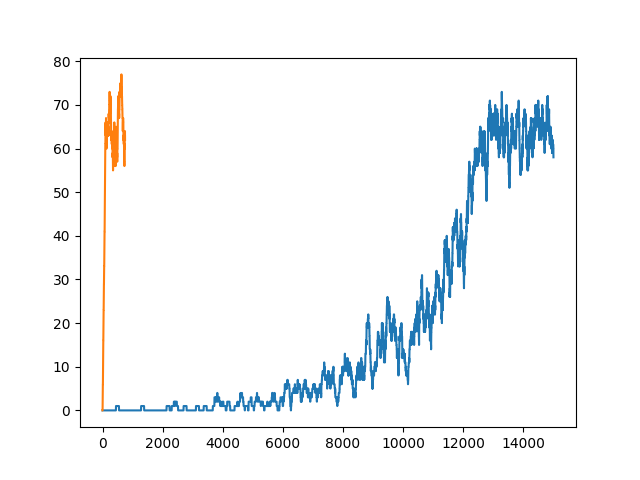
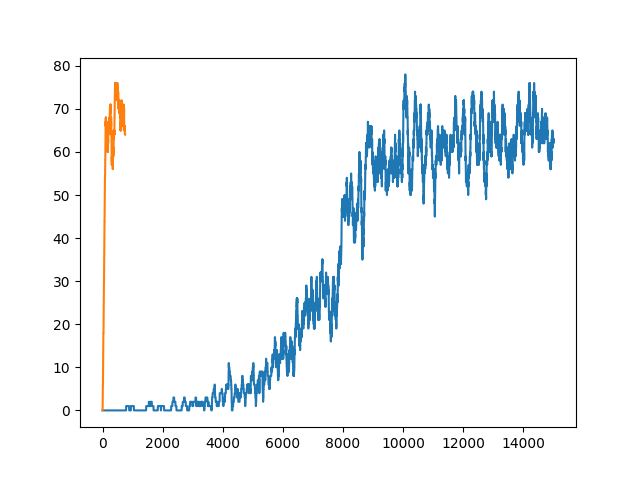
modify some bug

diff --git a/part2/frozen_lake.py b/part2/frozen_lake.py
@@ -55,10 +55,10 @@ def run(episodes, is_training=True, render=False, epsilon_decay_rate=0.0001, min
     # discount_factor_g = 0.9 # gamma or discount rate. Near 0: more weight/reward placed on immediate state. Near 1: more on future state.
     # epsilon = 1         # 1 = 100% random actions
     # epsilon_decay_rate = 0.0001        # epsilon decay rate. 1/0.0001 = 10,000
-    # start_learning_rate_a = 0.5
-    # min_learning_rate_a = 0.1
+    start_learning_rate_a = 0.5
+    min_learning_rate_a = 0.1
     learning_rate_a = start_learning_rate_a
-    rng = np.random.default_rng(seed=123)   # random number generator
+    rng = np.random.default_rng(seed=257)   # random number generator
 
     rewards_per_episode = np.zeros(episodes)
 
@@ -87,12 +87,12 @@ def run(episodes, is_training=True, render=False, epsilon_decay_rate=0.0001, min
             if is_training:
                 if terminated and not win:
                     distance_to_goal = shortest_distances[new_state // grid_size, new_state % grid_size]
-                    reward = (hole_reward / (distance_to_goal + 1))  # Closer to goal gets higher reward
+                    reward += (hole_reward / (distance_to_goal + 1))  # Closer to goal gets higher reward
                     pass
                 
                 if truncated and not win:
                     distance_to_goal = shortest_distances[new_state // grid_size, new_state % grid_size]
-                    reward = (time_up_reward / (distance_to_goal + 1))  # Further from goal gets penalty
+                    reward += (time_up_reward / (distance_to_goal + 1))  # Further from goal gets penalty
                     pass
 
             if is_training:
@@ -130,14 +130,14 @@ def run(episodes, is_training=True, render=False, epsilon_decay_rate=0.0001, min
         f.close()
 
 if __name__ == '__main__':
-    min_exploration_rate = 4.5024141989475924e-05
-    epsilon_decay_rate = 7.92635976172786e-05
-    discount_factor_g = 0.9811875011211423
-    start_learning_rate_a = 0.24130138284101282
-    min_learning_rate_a = 0.00021550651867325056
-    learning_decay_rate = 1.2819127738920352e-05
-    hole_reward = 0.05415618496895316
-    time_up_reward = 0.12283142801880073
+    min_exploration_rate = 4.6353977133665825e-05
+    epsilon_decay_rate = 0.00011601084539121906
+    discount_factor_g = 0.9881894202149261
+    start_learning_rate_a = 0.2144094441366212
+    min_learning_rate_a = 0.005203841389229674
+    learning_decay_rate = 0.0003221975772656527
+    hole_reward = 0.01
+    time_up_reward = 0
     min_learning_rate_a,learning_decay_rate
 
     run(15000,
